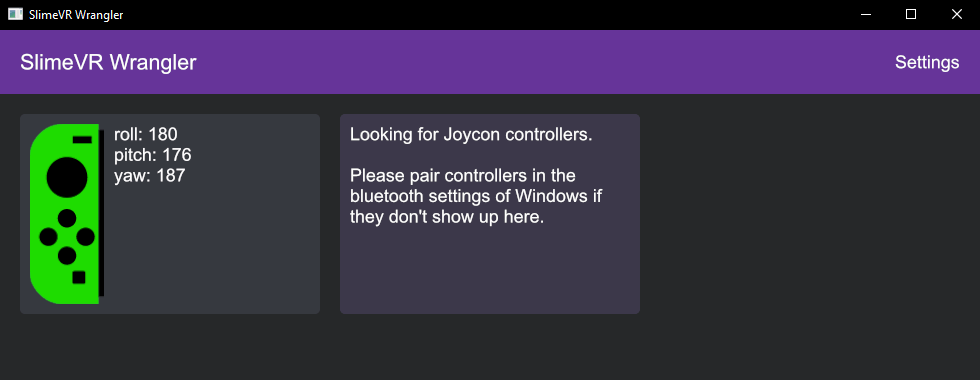
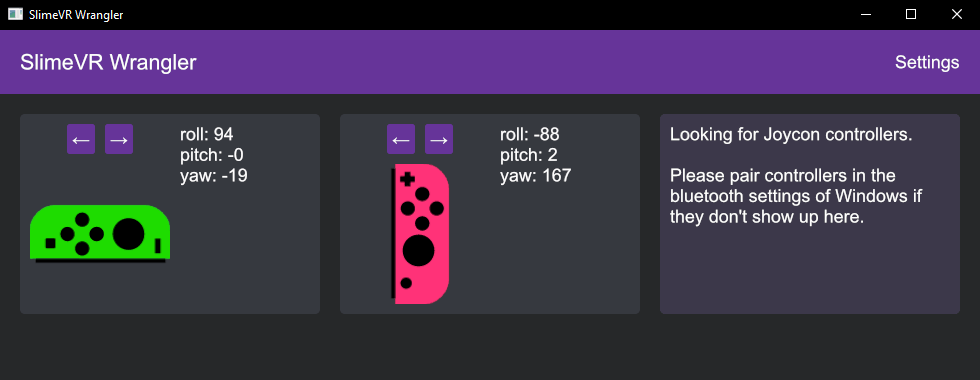
Show set rotation in UI. Update right imu table. This should allow users to easier see how their Joy-Con's should be mounted. The IMU axis data should now also work better for the right Joy-Con as it is transformed to be like the left Joy-Con.

Changed region(s): [[0.6735, 0.2895, 0.9796, 0.8395], [0.0306, 0.3184, 0.2755, 0.8105], [0.3367, 0.3184, 0.6122, 0.8105]]

diff --git a/src/joycon/integration.rs b/src/joycon/integration.rs
@@ -29,7 +29,7 @@ fn joycon_listen_loop(
     calib: IMUCalibration,
 ) {
     let serial_number = standard.driver().joycon().serial_number().to_owned();
-    //let device_type = standard.driver().joycon().device_type();
+    let device_type = standard.driver().joycon().device_type();
     let calib = match calib {
         IMUCalibration::Available {
             acc_origin_position: ao,
@@ -46,36 +46,25 @@ fn joycon_listen_loop(
                         .extra
                         .data
                         .iter()
-                        /* Why doesn't this work better?
-                           Is SlimeVR needing it inverted or does the invesion happen somewhere else?
-                           Leaving everything to no change is the best so far.
                         .map(|data| match device_type {
                             JoyConDeviceType::JoyConL | JoyConDeviceType::ProCon => {
                                 JoyconAxisData {
-                                    accel_x: -acc(data.accel_x - calib.0[0]),
+                                    accel_x: acc(data.accel_x - calib.0[0]),
                                     accel_y: acc(data.accel_y - calib.0[1]),
                                     accel_z: acc(data.accel_z - calib.0[2]),
                                     gyro_x: gyro(data.gyro_1 - calib.1[0]),
-                                    gyro_y: -gyro(data.gyro_2 - calib.1[1]),
-                                    gyro_z: -gyro(data.gyro_3 - calib.1[2]),
+                                    gyro_y: gyro(data.gyro_2 - calib.1[1]),
+                                    gyro_z: gyro(data.gyro_3 - calib.1[2]),
                                 }
                             }
                             JoyConDeviceType::JoyConR => JoyconAxisData {
-                                accel_x: -acc(data.accel_x - calib.0[0]),
+                                accel_x: acc(data.accel_x - calib.0[0]),
                                 accel_y: -acc(data.accel_y - calib.0[1]),
                                 accel_z: -acc(data.accel_z - calib.0[2]),
                                 gyro_x: gyro(data.gyro_1 - calib.1[0]),
-                                gyro_y: gyro(data.gyro_2 - calib.1[1]),
-                                gyro_z: gyro(data.gyro_3 - calib.1[2]),
+                                gyro_y: -gyro(data.gyro_2 - calib.1[1]),
+                                gyro_z: -gyro(data.gyro_3 - calib.1[2]),
                             },
-                        })*/
-                        .map(|data| JoyconAxisData {
-                            accel_x: acc(data.accel_x - calib.0[0]),
-                            accel_y: acc(data.accel_y - calib.0[1]),
-                            accel_z: acc(data.accel_z - calib.0[2]),
-                            gyro_x: gyro(data.gyro_1 - calib.1[0]),
-                            gyro_y: gyro(data.gyro_2 - calib.1[1]),
-                            gyro_z: gyro(data.gyro_3 - calib.1[2]),
                         })
                         .collect::<Vec<_>>()
                         .as_slice()

diff --git a/src/main.rs b/src/main.rs
@@ -145,7 +145,10 @@ impl Application for MainState {
                 if entry.rotation < 0 {
                     entry.rotation += 360;
                 }
-                println!("Offset for joycon {} set to: {:?}°", serial_number, entry.rotation);
+                println!(
+                    "Offset for joycon {} set to: {:?}°",
+                    serial_number, entry.rotation
+                );
                 self.settings.save();
             }
         }
@@ -181,7 +184,10 @@ impl Application for MainState {
 
             if self.joycon.is_some() {
                 for joycon_box in &mut self.joycon_boxes {
-                    let svg = self.joycon_svg.get(&joycon_box.status.design).clone();
+                    let svg = self
+                        .joycon_svg
+                        .get(&joycon_box.status.design, joycon_box.status.mount_rotation)
+                        .clone();
                     boxes.push(contain(joycon_box.view(svg)).style(style::Item::Normal));
                 }
                 boxes.push(
@@ -204,7 +210,7 @@ impl Application for MainState {
                     .push(
                         Button::new(
                             &mut self.buttons.enable_joycon,
-                            Text::new("Search for Joycons"),
+                            Text::new("Search for Joy-Con's"),
                         )
                         .on_press(Message::EnableJoyconsPressed)
                         .style(style::Button::Primary),
@@ -332,13 +338,8 @@ impl JoyconBox {
         }
     }
     fn view(&mut self, svg: Svg) -> Row<Message> {
-        Row::new()
+        let buttons = Row::new()
             .spacing(10)
-            .push(svg)
-            .push(Text::new(format!(
-                "roll: {:.0}\npitch: {:.0}\nyaw: {:.0}",
-                self.status.rotation.0, self.status.rotation.1, self.status.rotation.2
-            )))
             .push(
                 Button::new(&mut self.left, Text::new("←"))
                     .on_press(Message::JoyconRotate(
@@ -354,6 +355,16 @@ impl JoyconBox {
                         true,
                     ))
                     .style(style::Button::Primary),
-            )
+            );
+        let left = Column::new()
+            .spacing(10)
+            .align_items(Align::Center)
+            .push(buttons)
+            .push(svg);
+
+        Row::new().spacing(10).push(left).push(Text::new(format!(
+            "roll: {:.0}\npitch: {:.0}\nyaw: {:.0}",
+            self.status.rotation.0, self.status.rotation.1, self.status.rotation.2
+        )))
     }
 }

diff --git a/src/joycon/svg.rs b/src/joycon/svg.rs
@@ -8,7 +8,7 @@ static RIGHT: &str = include_str!("../../assets/joycon-right.svg");
 #[derive(Debug, Clone, PartialEq, Eq, Hash)]
 pub enum JoyconDesignType {
     Left,
-    Right
+    Right,
 }
 
 #[derive(Debug, Clone, PartialEq, Eq, Hash)]
@@ -17,7 +17,7 @@ pub struct JoyconDesign {
     pub design_type: JoyconDesignType,
 }
 pub struct JoyconSvg {
-    map: HashMap<JoyconDesign, Svg>,
+    map: HashMap<(JoyconDesign, i32), Svg>,
 }
 impl Default for JoyconSvg {
     fn default() -> Self {
@@ -30,14 +30,19 @@ impl JoyconSvg {
             map: HashMap::new(),
         }
     }
-    pub fn get(&mut self, design: &JoyconDesign) -> &Svg {
-        match self.map.entry(design.clone()) {
+    pub fn get(&mut self, design: &JoyconDesign, rotation: i32) -> &Svg {
+        match self.map.entry((design.clone(), rotation)) {
             Occupied(entry) => entry.into_mut(),
             Vacant(entry) => {
                 let svg_code = match design.design_type {
-                    JoyconDesignType::Left => LEFT.replace("#3fa9f5", &design.color),
-                    JoyconDesignType::Right => RIGHT.replace("#ff1d25", &design.color)
-                };
+                    JoyconDesignType::Left => LEFT,
+                    JoyconDesignType::Right => RIGHT,
+                }
+                .replace("#3fa9f5", &design.color)
+                .replace("rotate(0", &format!("rotate({:}", (rotation + 90) % 360));
+                // Rotation is how many degrees clockwise joycons are rotated from their "starting position".
+                // Left starts with rail down. Right starts with rail up.
+                // The svg's are not consistent with that so needs to be rotated an extra 90 degrees.
 
                 entry.insert(Svg::new(Handle::from_memory(svg_code)))
             }

diff --git a/src/joycon/communication.rs b/src/joycon/communication.rs
@@ -21,6 +21,7 @@ pub struct JoyconStatus {
     pub connected: bool,
     pub rotation: (f64, f64, f64),
     pub design: JoyconDesign,
+    pub mount_rotation: i32,
     pub serial_number: String,
 }
 
@@ -195,6 +196,11 @@ pub fn main_thread(
                     connected: true,
                     rotation: device.imu.euler_angles_deg(),
                     design: device.design.clone(),
+                    mount_rotation: if let Some(js) = settings.local.joycon.get(serial_number) {
+                        js.rotation
+                    } else {
+                        0
+                    },
                     serial_number: serial_number.clone(),
                 });
             }

diff --git a/README.md b/README.md
@@ -1,10 +1,8 @@
 # SlimeVR Wrangler
 
-Use joy-Con's (+) as SlimeVR trackers, enabling you to make a full body system with your existing devices. Combine with DIY SlimeVR trackers, or phones using owoTrack.
+Use Joy-Con's as SlimeVR trackers, enabling you to make a full body system with your existing devices. Combine with DIY SlimeVR trackers, or phones using owoTrack.
 
 ![Screenshot of the app running and tracking a single Joy-Con](screenshot.png)
-
-(+) More devices planned to be added.
 
 ## Setup
 You need bluetooth on your computer.
@@ -16,17 +14,13 @@ You need bluetooth on your computer.
 * The Joy-Con should show up in the window!
 * Follow the SlimeVR documentation to set up the new tracker, with the direction below:
 
-### Left Joy-Con
+### Mounting
 
-The rail that attaches to the switch device should be pointed toward your feet, with the joystick pointing forward.
+Attach the Joy-Con's in the direction that works best for you, use the SlimeVR guide to see the positions on your body.
 
-In SlimeVR server, set direction to "forward".
+Keep the joystick pointed outwards, it should not poke into your skin.
 
-You can also play around with different ways of mounting the Joy-Con, with different directions in the SlimeVR server.
-
-### Right Joy-Con
-
-Same as left Joy-Con, but with the joystick pointing inward. Note: I might change this in future versions to be same as left stick.
+After connecting the Joy-Con's in the program, rotate them in the program to be the same rotation as they are if you are standing up.
 
 ## Issues
 
@@ -34,7 +28,6 @@ Many! This is a **alpha** version, and there's no guarantees about anything.
 
 * Rotation tracking is bad! - Yup, sorry. In the future there will be settings to help fine tune the tracking. I suggest binding a button to reset.
 * It stops tracking when I turn around! - Bluetooth does not have a good range, you might have better luck with a different bluetooth adapter.
-* It crashes when I reconnect the Joy-Con! - Yeah, working on fixing this. You'll just have to restart the SlimeVR Wrangler program.
 * Probably more.
 
 ### My Joy-Con's are connected in the Windows bluetooth menu but won't show up!
